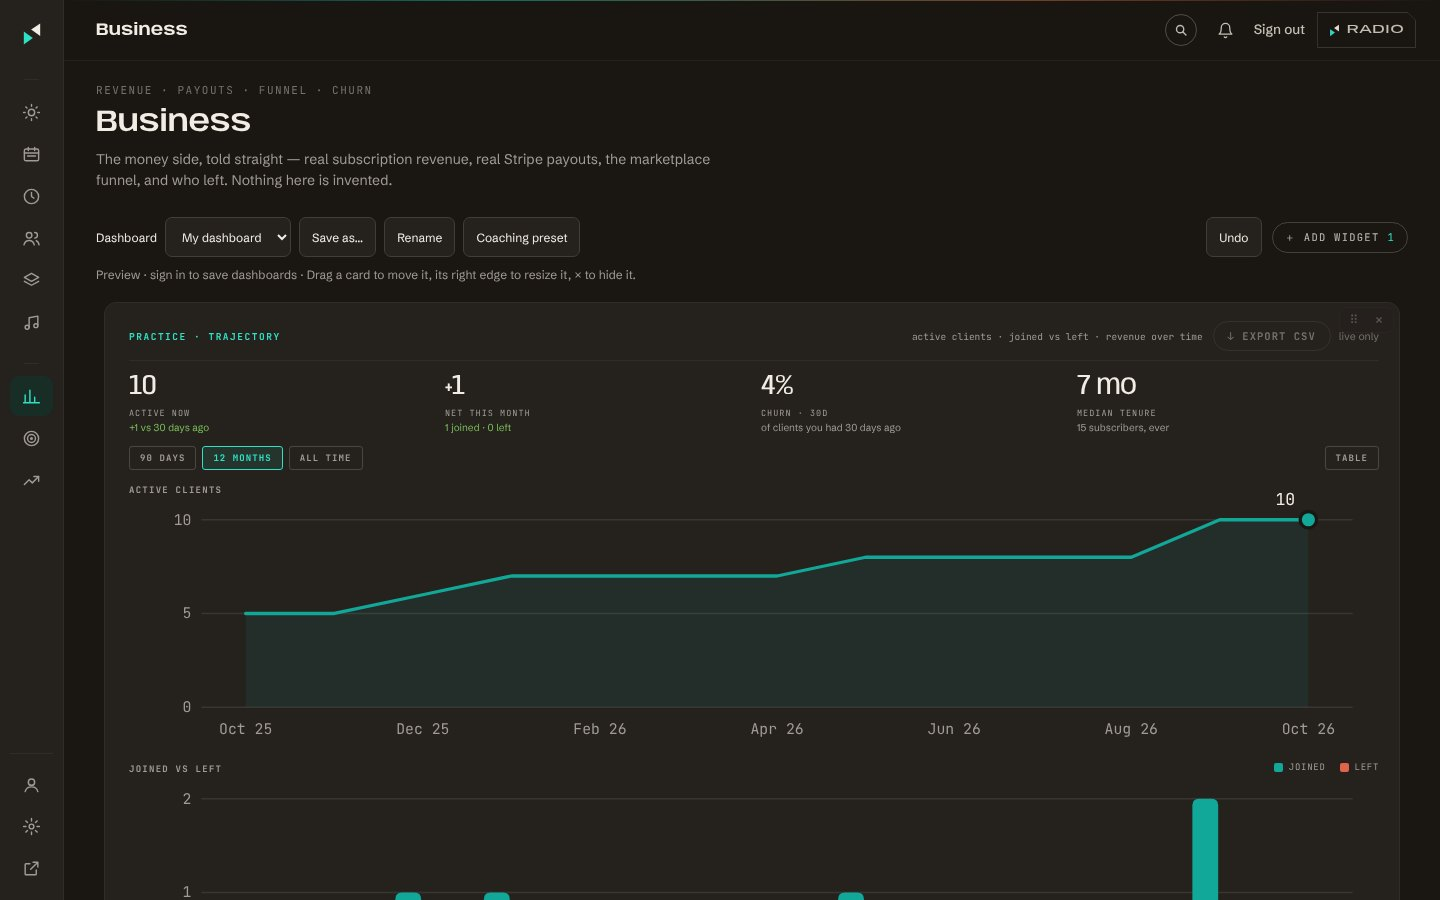
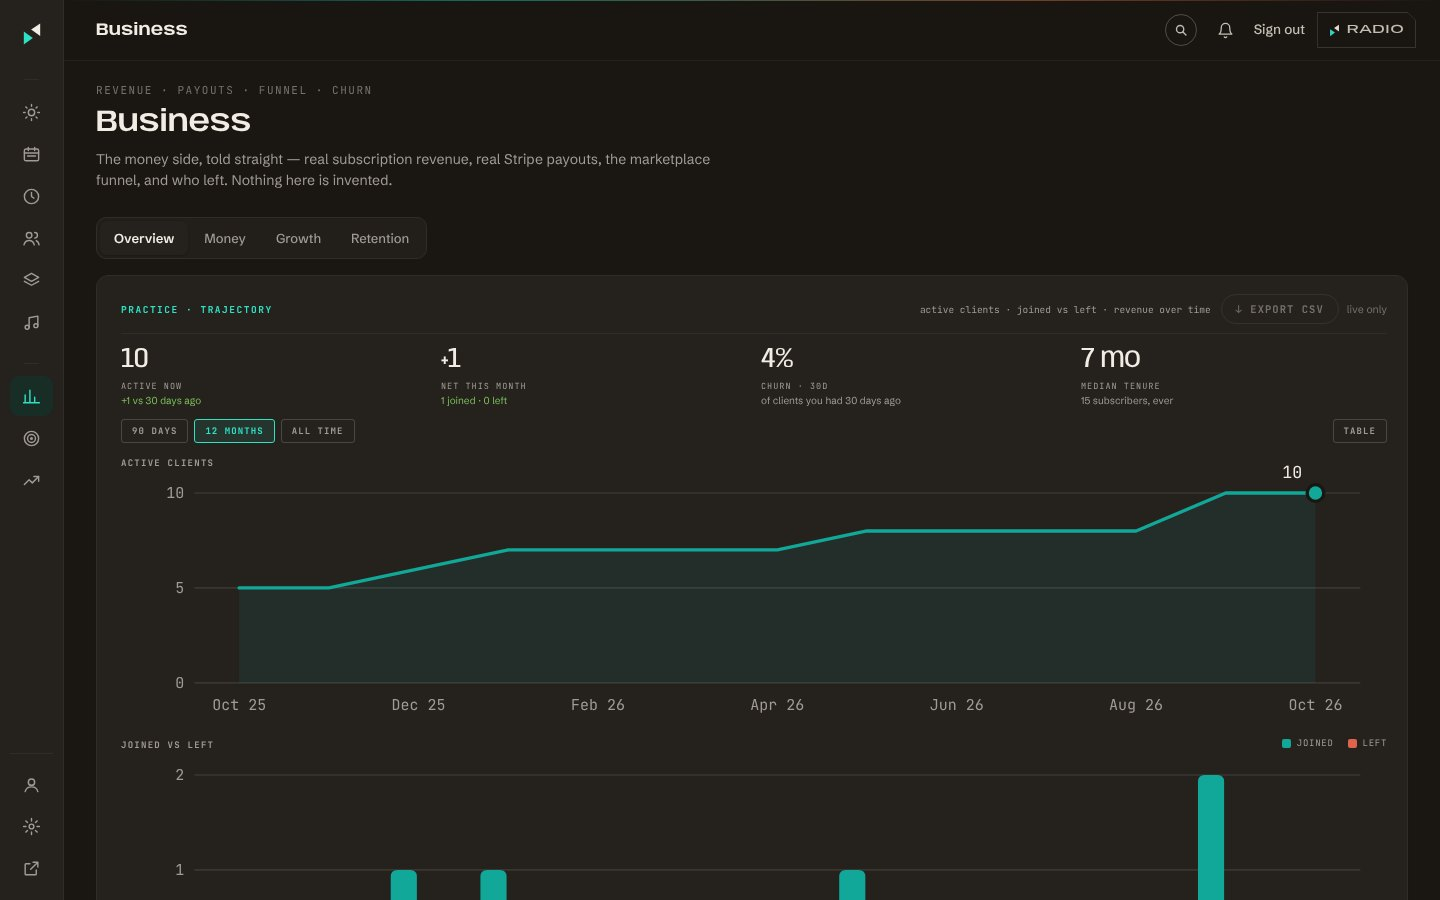
Coaches page: re-shoot the Clients, Business, Goal and Score frames
Owner, 2026-10-15: "re-shoot the coaches page snapshots too". After #2365 those
four dashboard pages are fixed layouts with no widget builder, so the eight
frames (both roles) still showed the old builder bar and filter chips.

- Re-shot from main with the recipe in coaches.jsx: 1440x900, dark paper, the
  demo practice behind a signed-in app bar, fonts from the @fontsource files,
  JPEG q86. Business is on its default Overview section.
- The frames' cache key moves to ?v=20261015-fixed.
- Captions: Business says it reads one section at a time; the nutritionist
  Clients line (here and on the nutritionist page) no longer promises a
  "specialty or protocol" filter that does not exist. It filters by status.

Claude-Session: https://claude.ai/code/session_01HWUVX8ZFrg1ZPT4rPuUfHq

diff --git a/public/newdesign/coaches.jsx b/public/newdesign/coaches.jsx
@@ -24,6 +24,9 @@
 // shot before the gate existed. The next person to fulfil `{user:null}` will
 // read the redirect as the harness being broken; it is the gate working.
 //
+// The Clients, Business, Goal and Score frames were re-shot 2026-10-15 (both roles), after
+// #2365 made those four pages fixed layouts with no widget builder; same recipe as below,
+// Business on its default Overview section. The ?v on `src` moved with them.
 // Captures refreshed 2026-10-14, after #2343 gave the dashboard its own app frame
 // (the icon rail and the app bar ARE the dashboard now, so they stay in every frame;
 // the old recipe's "hide the site header, move main up 72px" no longer applies).
@@ -92,7 +95,7 @@ const CO_TOUR = {
         body: "Blocks, sessions, sets, reps, RPE and tempo, with autoregulation built in. Write a block once and clone it to a new client in one click.",
         list: ["Program templates by goal phase", "Who needs a program next", "Assign pre-fills the queue", "Publish a whole week at once"] },
       { key: "business", file: "business", name: "Business",
-        body: "The money side, told straight: subscription revenue, payouts, the marketplace funnel and who left.",
+        body: "The money side, told straight, one section at a time: the practice's trajectory, revenue and payouts, the marketplace funnel, and who stayed or left.",
         list: ["Active clients, joined vs left, revenue over time", "Monthly recurring, net after the platform fee", "Churn and median tenure", "A CSV for your accountant"] },
       { key: "playlists", file: "playlists", name: "Playlists",
         body: "Paste a Spotify or Apple Music link, attach it to a workout, and your client gets a play button on the session card. Optional, always skippable.",
@@ -125,13 +128,13 @@ const CO_TOUR = {
         body: "Your week and your month. Clients book consults inside Shape, into the hours you open, and every booking reads in your own time zone. Drag one to a new day and the client is notified.",
         list: ["Week and month views", "Drag a consult to move it; the client is notified", "Open hours you set once, in your own time zone", "Consults color-coded by client, one click to their file", "A private, read-only feed for Google Calendar, Apple Calendar or Outlook"] },
       { key: "clients", file: "clients", name: "Clients",
-        body: "One roster, one view: adherence, last food log, last consult, weight trend, revenue and tenure. Filter by specialty or protocol and open any client's full file.",
+        body: "One roster, one view: adherence, last food log, last consult, weight trend, revenue and tenure. Filter by status and open any client's full file.",
         list: ["Sort every column that has a value behind it", "Status tiles: needs you, watch, on track and new", "Each client's file one click away", "Export the roster as a spreadsheet"] },
       { key: "programs", file: "plans", name: "Plans",
         body: "Macro targets, swap rules and grocery lists that generate themselves. Save any plan as a template and reuse it across clients; the lifecycle view says who needs a plan next.",
         list: ["Plan templates by goal phase", "Expiring this week, ready for a phase change", "Assign pre-fills the plan queue", "Intake pending, so nothing is written blind"] },
       { key: "business", file: "business", name: "Business",
-        body: "The money side, told straight: subscription revenue, payouts, the marketplace funnel and who left.",
+        body: "The money side, told straight, one section at a time: the practice's trajectory, revenue and payouts, the marketplace funnel, and who stayed or left.",
         list: ["Active clients, joined vs left, revenue over time", "Monthly recurring, net after the platform fee", "Churn and median tenure", "A CSV for your accountant"] },
       { key: "playlists", file: "playlists", name: "Playlists",
         body: "Paste a Spotify or Apple Music link, attach it to a meal, recipe or prep routine, and your client gets a play button in their kitchen. Optional, always skippable.",
@@ -152,7 +155,7 @@ const CO_TOUR = {
 // ⚠ THE FRAME CARRIES ITS OWN LABEL. Not a caption under the picture — a mark on
 // it, so the claim travels with the image wherever it is seen.
 function CoFrame({ role, tab, style = {} }) {
-  const src = `/newdesign/coaches/coaches-dash-${role}-${tab.file}.jpg?v=20261014-frame`;
+  const src = `/newdesign/coaches/coaches-dash-${role}-${tab.file}.jpg?v=20261015-fixed`;
   return (
     <div style={{ border: "1px solid rgba(238,243,240,0.10)", borderRadius: 10, background: "#0a0f17", boxShadow: "0 40px 90px rgba(0,0,0,0.55)", overflow: "hidden", ...style }}>
       <div style={{ display: "flex", alignItems: "center", gap: 10, height: 34, padding: "0 12px", borderBottom: "1px solid rgba(238,243,240,0.055)", background: "rgba(255,255,255,0.02)" }}>

diff --git a/public/newdesign/nutritionist.jsx b/public/newdesign/nutritionist.jsx
@@ -289,7 +289,7 @@ function NutTools() {
   const tools = [
     { t: "Meal plan builder", b: "Macro targets, swap rules, grocery lists that auto-generate. Save any plan as a template, reuse across clients." },
     { t: "Food log review", b: "Client logs land in one thread. Flag outliers, leave timestamped notes, and keep the whole history in one place." },
-    { t: "Client roster", b: "Adherence, weight trend, flagged clients, upcoming consults — all one screen. Filter by specialty or protocol." },
+    { t: "Client roster", b: "Adherence, weight trend, flagged clients, upcoming consults — all one screen. Filter by status." },
     // ⚠ This said "Two-way sync with Google, Apple, Outlook. Clients book 20-min check-ins or
     // 60-min consults. Auto-reminders, intake forms." — no sync, no session reminders, and a
     // booking is a 15-minute consult (owner, 2026-10-07; see coaches.jsx's Schedule tab).
